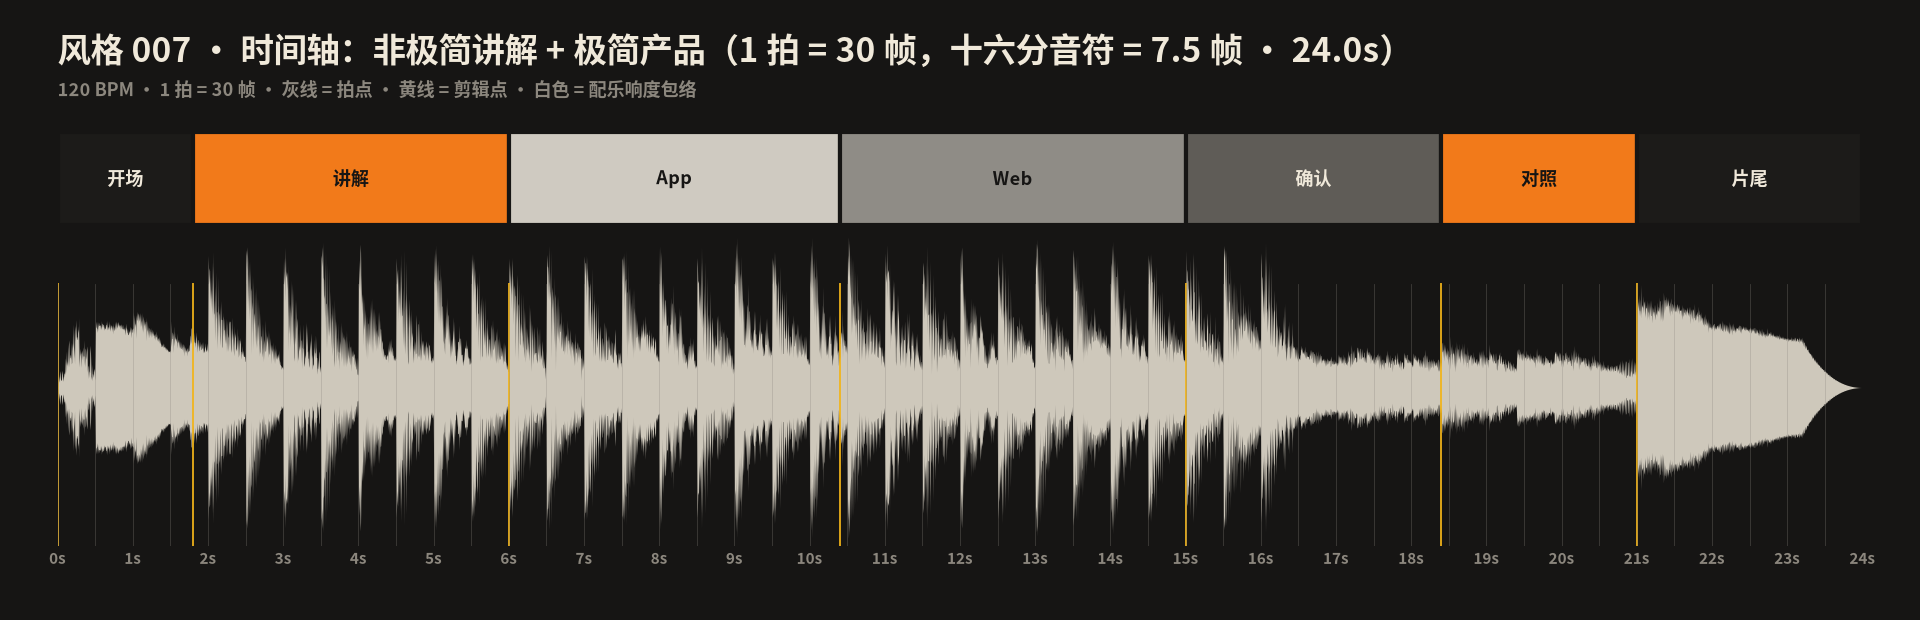
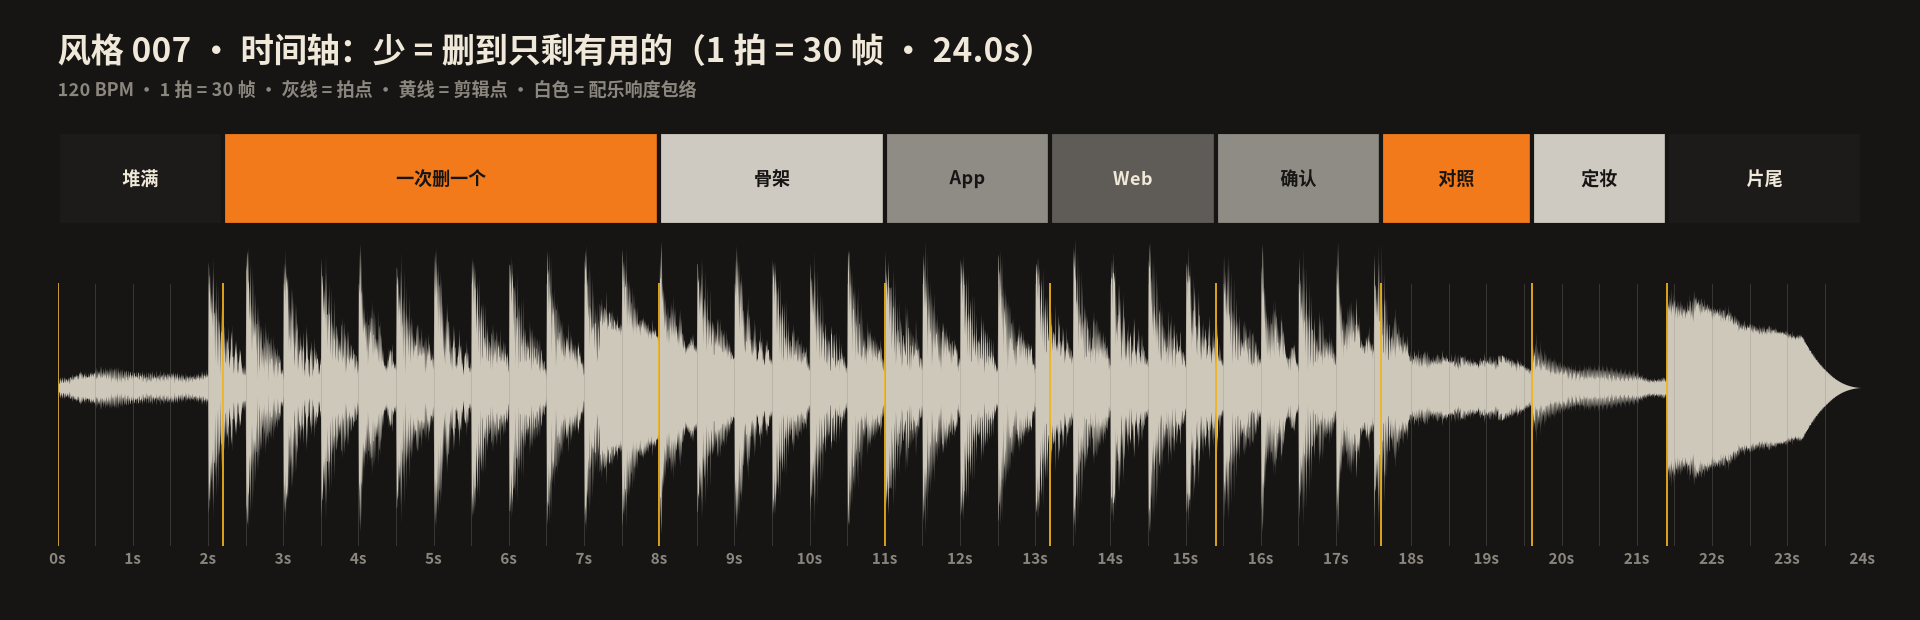
007 五改：定妆帧改成印刷海报构图，47 / 1 不再叠在主题句上
网格全部压在地平线以上，缺一格落到橙点；删掉的五类与 47 / 1 分列左右。

diff --git a/styles/007-minimalism/video/finale.tsx b/styles/007-minimalism/video/finale.tsx
@@ -16,10 +16,19 @@ export const END_AT = AT.end;
 export const POSTER_AT = AT.poster;
 
 const GHOST = 'rgba(28,27,25,0.28)';
+/** 6×8 虚线圆全部压在地平线以上，缺一格落到橙点——和印刷海报同一构图。 */
 const GRID_X0 = 1180;
-const GRID_Y0 = 220;
-const PITCH = 56;
-const MISSING = {i: 4, j: 5};
+const GRID_Y0 = 168;
+const PITCH = 46;
+const GR = 15;
+const MISSING = {i: 4, j: 6};
+const STRUCK: {zh: string; dead: boolean}[] = [
+  {zh: '促销字', dead: true},
+  {zh: '第二色', dead: true},
+  {zh: '重复入口', dead: true},
+  {zh: '装饰', dead: true},
+  {zh: '有用的', dead: false},
+];
 
 const PosterHold: React.FC<P> = ({f}) => {
   if (f < AT.poster - 4 || f >= AT.end) return null;
@@ -34,42 +43,67 @@ const PosterHold: React.FC<P> = ({f}) => {
       <Letters
         text="少"
         x={L - 4}
-        y={300}
+        y={232}
         k="d100"
-        size={220}
+        size={168}
         fx={(i) => {
           const p = tween(f, AT.poster + 4 + i * 2, 16, 0, 1, E.out);
           return {o: p, dy: (1 - p) * 24};
         }}
       />
-      <Txt x={L} y={380} k="sc300" size={42} o={tween(f, AT.poster + 12, 12)}>
-        {THESIS.zh}
+      <Txt x={L} y={286} k="sc300" size={30} ls={0.04} o={tween(f, AT.poster + 12, 12)}>
+        = 删到只剩有用的
       </Txt>
-      <Txt x={L} y={430} k="t300" size={28} c={C.greyDk} o={tween(f, AT.poster + 18, 10)}>
+      <Txt x={L} y={320} k="t300" size={22} c={C.greyDk} o={tween(f, AT.poster + 18, 10)}>
         {THESIS.en}
       </Txt>
-      <Txt x={L} y={400} k="d100" size={88} o={tween(f, AT.poster + 16, 10)}>
+      <Txt x={R} y={286} k="mono" size={13} ls={0.14} c={C.greyDk} anchor="end" o={tween(f, AT.poster + 16, 10)}>
+        WENIGER, ABER BESSER
+      </Txt>
+      {STRUCK.map((row, i) => {
+        const yy = 368 + i * 28;
+        const show = tween(f, AT.poster + 20 + i * 3, 8);
+        const w = row.zh.length * 20;
+        return (
+          <g key={row.zh} opacity={n2(show)}>
+            <Txt x={L} y={yy} k="mono" size={13} ls={0.12} c={row.dead ? C.grey : C.accent}>
+              {`0${i + 1}`}
+            </Txt>
+            <Txt x={L + 40} y={yy} k="sc400" size={20} c={row.dead ? C.grey : C.accent}>
+              {row.zh}
+            </Txt>
+            {row.dead ? <line x1={L + 38} y1={yy - 7} x2={L + 42 + w} y2={yy - 7} stroke={C.grey} strokeWidth={1} /> : null}
+          </g>
+        );
+      })}
+      <Txt x={L} y={HZ - 24} k="d100" size={72} o={tween(f, AT.poster + 36, 10)}>
         47
       </Txt>
-      <Txt x={L + 170} y={372} k="sc300" size={18} o={tween(f, AT.poster + 20, 8)}>
+      <Txt x={L + 136} y={HZ - 52} k="sc300" size={16} o={tween(f, AT.poster + 40, 8)}>
         样东西，删掉了
       </Txt>
-      <Txt x={L} y={HZ - 12} k="d100" size={88} o={tween(f, AT.poster + 24, 10)}>
+      <Txt x={L + 136} y={HZ - 28} k="mono" size={11} ls={0.14} c={C.grey} o={tween(f, AT.poster + 42, 8)}>
+        REMOVED
+      </Txt>
+      <Txt x={L + 400} y={HZ - 24} k="d100" size={72} o={tween(f, AT.poster + 44, 10)}>
         1
       </Txt>
-      <Txt x={L + 80} y={HZ - 36} k="sc300" size={18} o={tween(f, AT.poster + 28, 8)}>
+      <Txt x={L + 456} y={HZ - 52} k="sc300" size={16} o={tween(f, AT.poster + 48, 8)}>
         个留下：有用的那一个
       </Txt>
       {Array.from({length: 8}, (_, j) =>
         Array.from({length: 6}, (_, i) => {
           if (i === MISSING.i && j === MISSING.j) return null;
-          return <circle key={`${i}-${j}`} cx={GRID_X0 + i * PITCH} cy={GRID_Y0 + j * PITCH} r={18} fill="none" stroke={GHOST} strokeWidth={1} strokeDasharray="2.5 3.5" opacity={n2(tween(f, AT.poster + 6 + i + j, 8))} />;
+          return <circle key={`${i}-${j}`} cx={GRID_X0 + i * PITCH} cy={GRID_Y0 + j * PITCH} r={GR} fill="none" stroke={GHOST} strokeWidth={1} strokeDasharray="2.5 3.5" opacity={n2(tween(f, AT.poster + 6 + i + j, 8))} />;
         }),
       )}
-      <circle cx={mx} cy={my} r={18} fill="none" stroke={C.accent} strokeWidth={1} strokeDasharray="1 5" opacity={0.7 * (1 - drop)} />
-      <line x1={mx} y1={lerp(my + 20, HZ - 20, drop)} x2={mx} y2={HZ - 20} stroke={C.grey} strokeWidth={1} strokeDasharray="1 6" opacity={n2(drop)} />
+      <circle cx={mx} cy={my} r={GR} fill="none" stroke={C.accent} strokeWidth={1} strokeDasharray="1 5" opacity={0.7 * (1 - drop)} />
+      <line x1={mx} y1={lerp(my + GR + 6, HZ - 20, drop)} x2={mx} y2={HZ - 20} stroke={C.grey} strokeWidth={1} strokeDasharray="1 6" opacity={n2(drop)} />
       <Hair x1={L} y1={HZ} x2={R} y2={HZ} p={tween(f, AT.poster + 8, 16, 0, 1, E.inOut)} from="center" o={0.85} />
       <Dot x={mx} y={HZ} r={DOT.r * drop} />
+      <Txt x={mx} y={HZ + 36} k="mono" size={11} ls={0.14} c={C.grey} anchor="middle" o={tween(f, AT.poster + 28, 8)}>
+        ONE LEFT
+      </Txt>
     </g>
   );
 };
